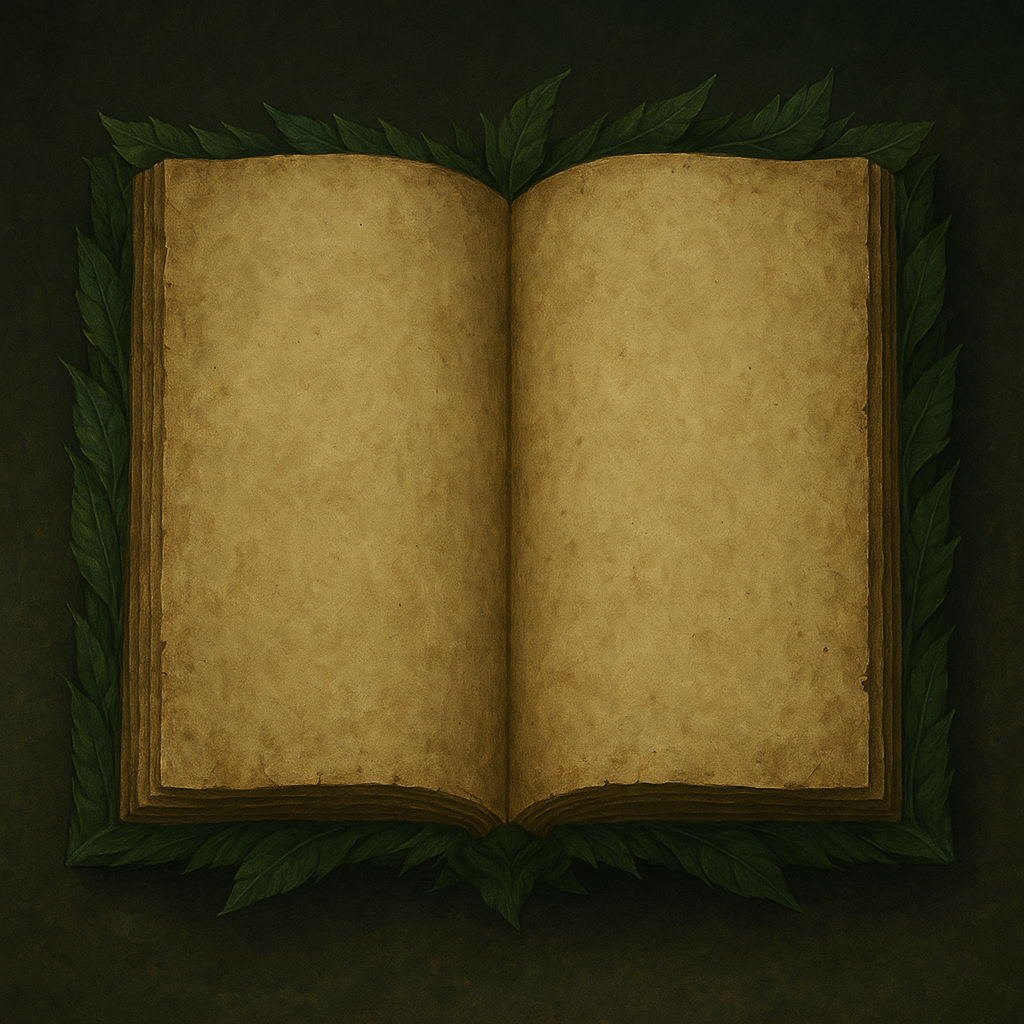
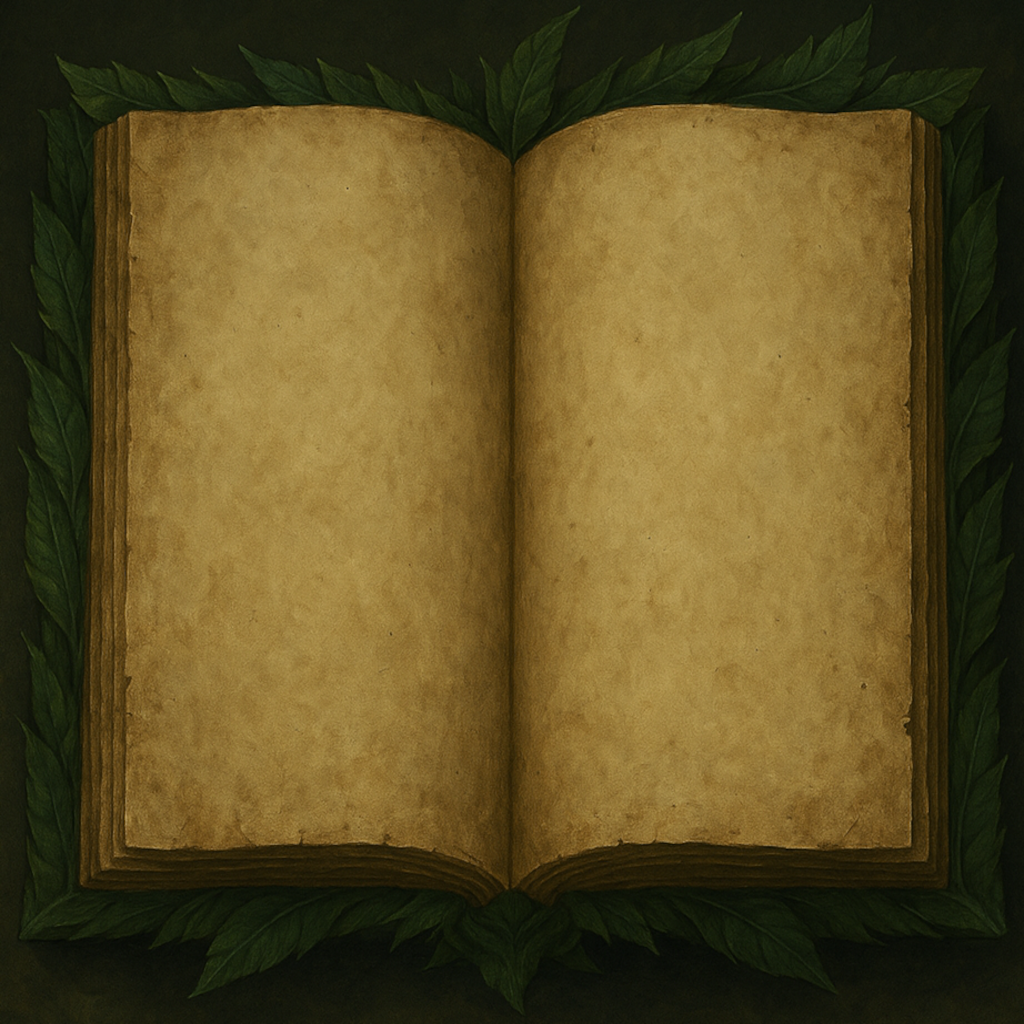
edits

diff --git a/index.html b/index.html
@@ -22,8 +22,8 @@
     #book {
 	background: url('images/closed_book.png') no-repeat center center;
 	background-size: cover;
-	width: 600px;
-	height: 400px;
+	width: 1024px;
+	height: 1024px;
 	position: relative;
 	border-radius: 8px;
 	cursor: pointer;
